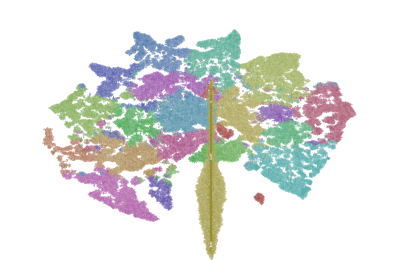
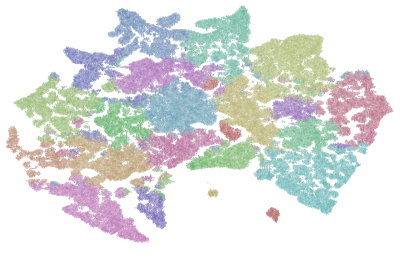
finish force simulation

diff --git a/frontend/src/lib/components/GridGenerator.svelte b/frontend/src/lib/components/GridGenerator.svelte
@@ -26,6 +26,8 @@
                     "filename": d.filename,
                     "x": d.x,
                     "y": d.y, 
+                    // "x": getX(d),
+                    // "y": getY(d),
                     "width": d.width, 
                     "height": d.height
                 });
@@ -79,7 +81,7 @@
     // Use d3 force simulation to position items 
     function runSimulation() {
         console.log("running simulation");
-        for (var i = 0; i < 50; ++i) {
+        for (var i = 0; i < 200; ++i) {
             console.log("tick " + i);
             simulation.tick();
         }

diff --git a/frontend/src/lib/components/MinimapGenerator.svelte b/frontend/src/lib/components/MinimapGenerator.svelte
@@ -3,8 +3,8 @@
     import {getDocumentColor} from "../colors.js";
     import {onMount } from 'svelte';
 
-    const min_x = -74000; const max_x = 74000;
-    const min_y = -74000; const max_y = 74000;
+    const min_x = -60000; const max_x = 60000;
+    const min_y = -60000; const max_y = 60000;
 
     const width = 200 * 2;
     const height = 130 * 2;
